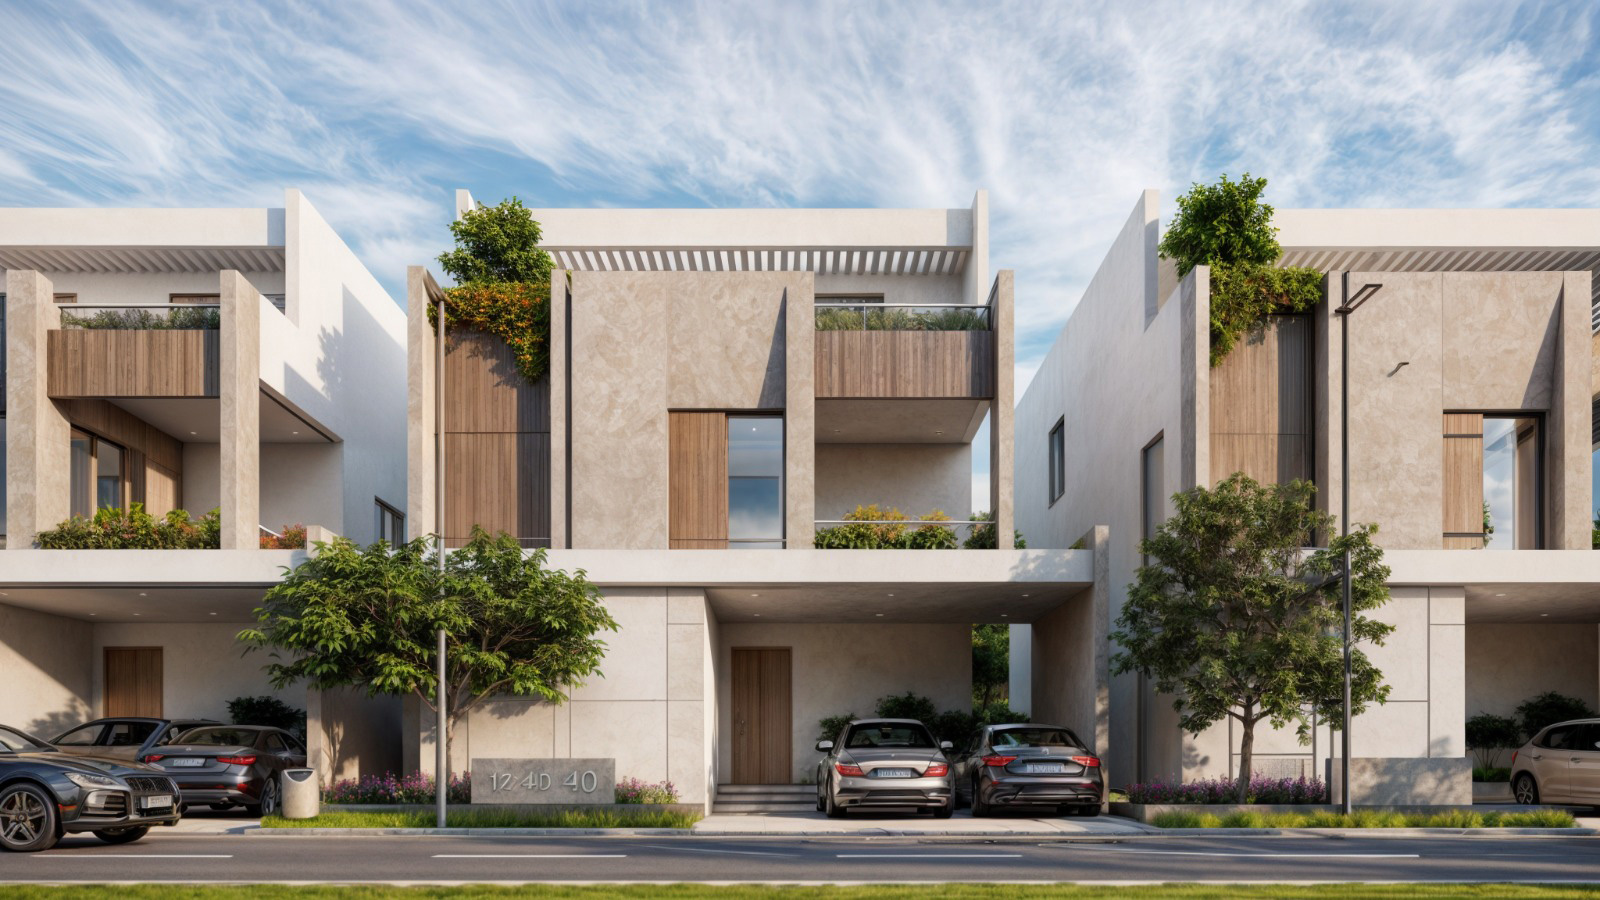
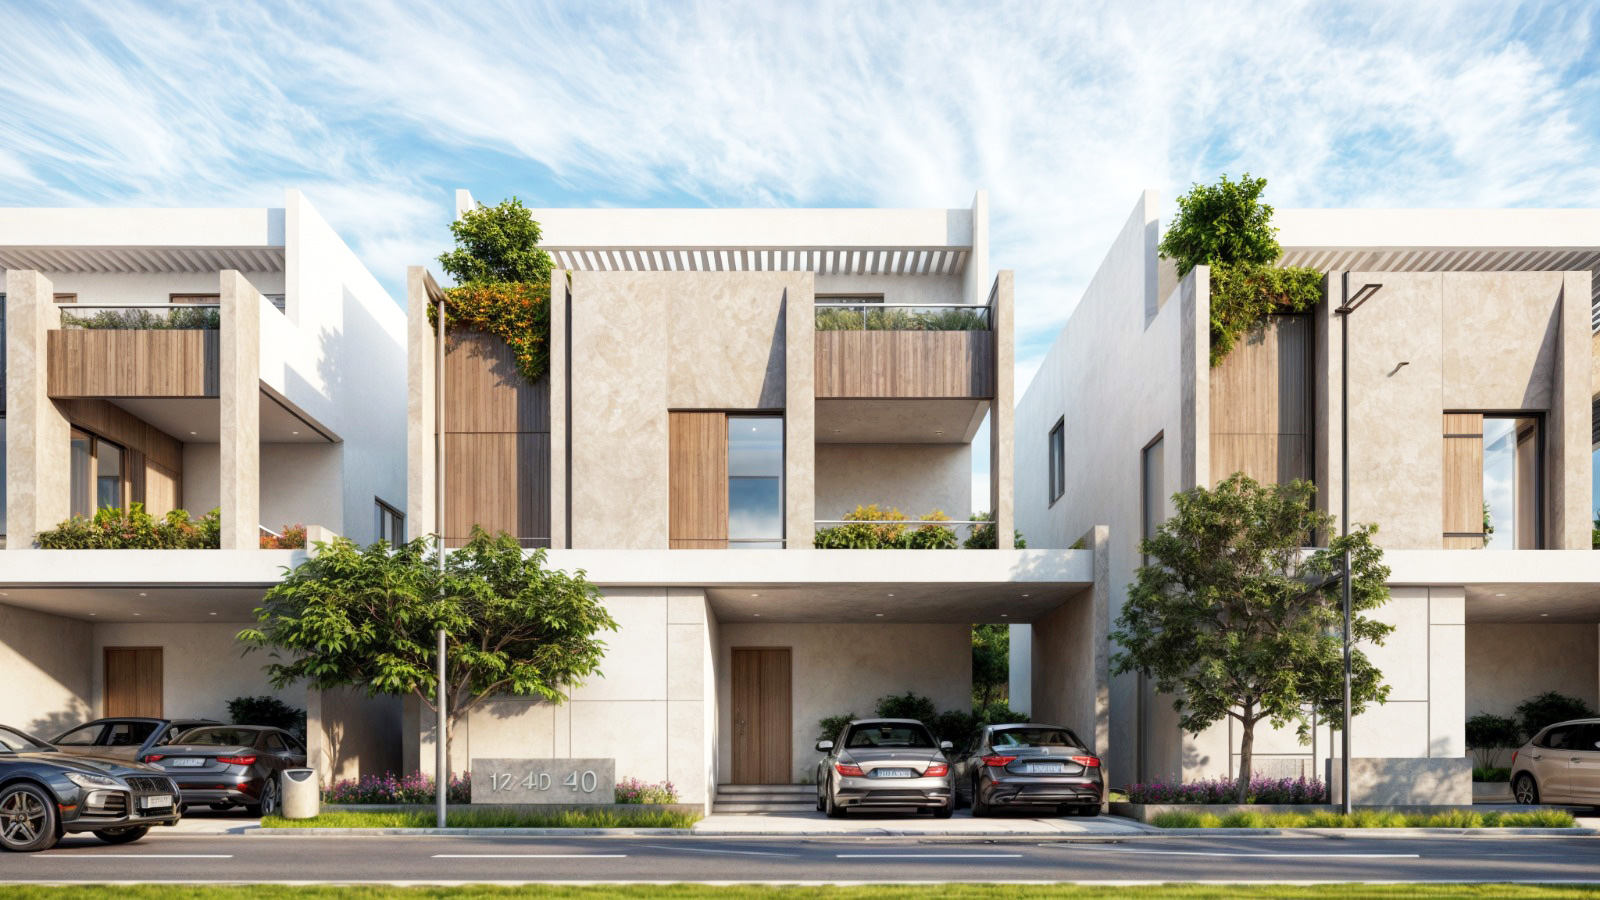
latest

diff --git a/index.html b/index.html
@@ -286,12 +286,12 @@
               <article>
                 
                 <div class="row gx-0 align-items-center">
-                  <div class="col-md-6 text-justify">
-                    <h3 class="fs-16 text-uppercase text-primary mb-1">Overview</h3>
+                  <div class="col-md-6">
+                   
                     <h2 class="display-6 mb-4">
                   About S.V. Infra Projects
                 </h2>
-                    <p>
+                    <p style="text-align: justify;">
                       S.V. Infra Projects is a trusted real estate development company based in Hyderabad, Telangana state, India. The promoters bring over 20 years of extensive experience in the construction industry and have successfully executed several projects across residential <strong>gated communities for villas and apartments</strong>, commercial, and layout development sectors under previous ventures. Operating under the name <strong>S.V. Infra Projects</strong> for the past 8 years, the company has consistently delivered projects on schedule, adhering to high standards of quality, transparency, and statutory compliance, thereby earning long-term trust from clients. S.V. Infra Projects is known for quality workmanship, timely delivery, and client satisfaction.
                     </p>
                     
@@ -419,7 +419,7 @@
       <div class="col-lg-6">
         <!-- <h2 class="fs-15 text-uppercase text-line text-primary text-center mb-3">Meet the Team</h2> -->
         <h3 class="display-5 mb-2">Leadership</h3>
-        <p>Leaders in a real estate company are visionaries who transform possibilities into thriving communities. They inspire trust through integrity, empower their teams to strive for excellence, and lead with purpose in every decision they make. By embracing innovation and placing people at the heart of their approach, they create lasting value—not only in the properties they develop, but also in the relationships they build and the lives they enrich. At the helm of our organization is our visionary leader, <strong class="text-primary">P. Vijay N. Raju</strong>, supported by a dynamic leadership team comprising <strong class="text-primary"><br>P.V.N. Shaker Varma, N. Srinu, and P. Harshavardhan</strong>, who collectively drive our mission with dedication and foresight.</p>
+        <p style="text-align: justify;">Leaders in a real estate company are visionaries who transform possibilities into thriving communities. They inspire trust through integrity, empower their teams to strive for excellence, and lead with purpose in every decision they make. By embracing innovation and placing people at the heart of their approach, they create lasting value—not only in the properties they develop, but also in the relationships they build and the lives they enrich. At the helm of our organization is our visionary leader, <strong class="text-primary">P. Vijay N. Raju</strong>, supported by a dynamic leadership team comprising <strong class="text-primary"><br>P.V.N. Shaker Varma, N. Srinu, and P. Harshavardhan</strong>, who collectively drive our mission with dedication and foresight.</p>
         <!-- <a href="#" class="btn btn-primary rounded-pill mt-3">See All Members</a> -->
       </div>
       <!--/column -->
@@ -477,7 +477,20 @@ Developments That Reflect Our Commitment to Quality      </h3>
     <div class="col-lg-4">
       <div class="card">
         <a href="projects.html#completed">
-        <img class="card-img-top" src="assets/img/complted-projects.jpg" alt="">
+       <div class="swiper-container dots-over" data-margin="5" data-dots="false" data-nav="true" data-autoheight="true">
+  <div class="swiper">
+    <div class="swiper-wrapper">
+
+
+      <div class="swiper-slide"><img src="/assets/img/completed-1.jpg" class="" alt="" /></div>
+      <div class="swiper-slide"><img src="/assets/img/completed-2.jpg" class="" alt="" /></div>
+      <div class="swiper-slide"><img src="/assets/img/completed-3.jpg" class="" alt="" /></div>
+    </div>
+    <!--/.swiper-wrapper -->
+  </div>
+  <!-- /.swiper -->
+</div>
+<!-- /.swiper-container -->
         <div class="card-body"><h5 class="card-title">Completed Projects</h5></div><!--/.card-body -->
         </a>
       </div><!--/.card -->
@@ -486,7 +499,20 @@ Developments That Reflect Our Commitment to Quality      </h3>
     <div class="col-lg-4">
       <div class="card">
         <a href="projects.html#ongoing">
-        <img class="card-img-top" src="assets/img/ongoing-projects.jpg" alt="">
+        <div class="swiper-container dots-over" data-margin="5" data-dots="false" data-nav="true" data-autoheight="true">
+  <div class="swiper">
+    <div class="swiper-wrapper">
+
+
+      <div class="swiper-slide"><img src="/assets/img/ongoing-1.jpg" class="" alt="" /></div>
+      <div class="swiper-slide"><img src="/assets/img/ongoing-2.jpg" class="" alt="" /></div>
+      
+    </div>
+    <!--/.swiper-wrapper -->
+  </div>
+  <!-- /.swiper -->
+</div>
+<!-- /.swiper-container -->
         <div class="card-body"><h5 class="card-title">Ongoing Projects</h5></div><!--/.card-body -->
         </a>
       </div><!--/.card -->
@@ -495,7 +521,20 @@ Developments That Reflect Our Commitment to Quality      </h3>
     <div class="col-lg-4">
       <div class="card">
         <a href="projects.html#upcoming">
-        <img class="card-img-top" src="assets/img/upcoming-projects.jpg" alt="">
+        <div class="swiper-container dots-over" data-margin="5" data-dots="false" data-nav="true" data-autoheight="true">
+  <div class="swiper">
+    <div class="swiper-wrapper">
+
+
+      <div class="swiper-slide"><img src="/assets/img/upcoming-1.jpg" class="" alt="" /></div>
+      <div class="swiper-slide"><img src="/assets/img/upcoming-2.jpg" class="" alt="" /></div>
+      
+    </div>
+    <!--/.swiper-wrapper -->
+  </div>
+  <!-- /.swiper -->
+</div>
+<!-- /.swiper-container -->
         <div class="card-body"><h5 class="card-title">Upcoming Projects</h5></div><!--/.card-body -->
         </a>
       </div><!--/.card -->
@@ -525,6 +564,10 @@ Developments That Reflect Our Commitment to Quality      </h3>
           .mobile {
             display: block;
           }
+        }
+
+        .swiper-controls .swiper-navigation .swiper-button{
+          background: rgba(255,255,255,.8);
         }
       </style>
 
